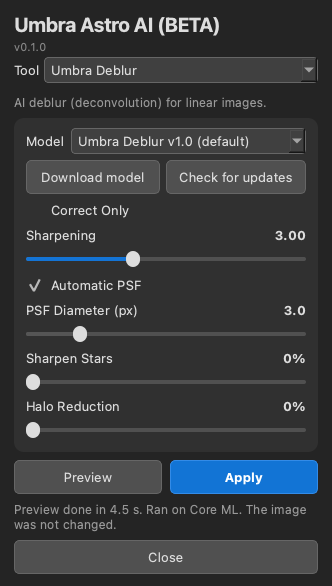
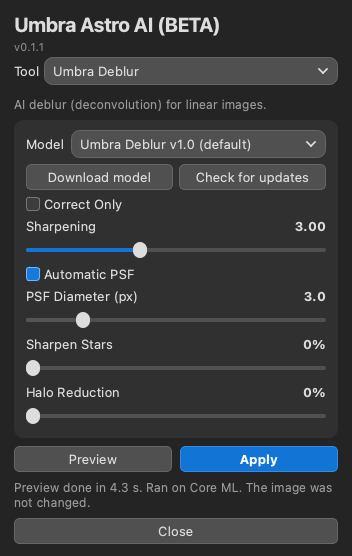
v0.1.1: buttons, check boxes, drop-downs and scroll bars styled like Umbra Astro Studio

Changed region(s): [[0.0301, 0.0306, 0.9639, 0.9784]]

diff --git a/Umbra_Astro_AI.py b/Umbra_Astro_AI.py
@@ -7,8 +7,9 @@ Run in Siril (Scripts menu), or standalone:
   python Umbra_Astro_AI.py --tool deblur|denoise|starless|gradient --image in.fits --out out.fits [--model PATH.onnx] [tool options, see --help]
   python Umbra_Astro_AI.py --ui-test        (opens the window on a fake image, runs Preview once, exits)
   python Umbra_Astro_AI.py --check-updates | --download [MODEL_ID|all]"""
-VERSION = '0.1.0'
-# First release of the combined script. Models go to the same folders as the single scripts ("Umbra Deblur", "Umbra Denoise", "Umbra Starless", "Umbra Gradient").
+VERSION = '0.1.1'
+# 0.1.1: buttons, check boxes, drop-down menus and scroll bars now look the same as in Umbra Astro Studio.
+# 0.1.0: First release of the combined script. Models go to the same folders as the single scripts ("Umbra Deblur", "Umbra Denoise", "Umbra Starless", "Umbra Gradient").
 # ============================================================================================ shared code (src/common.py)
 # Everything the five scripts share: dependency install, ONNX Runtime sessions, updater, preferences, Siril I/O, family UI, CLI.
 import sys, os, json, hashlib, argparse, time, math, re, types
@@ -710,20 +711,34 @@ def to_rgb8(img, params, flip=False):
 STYLE = """
 QWidget { background: #242424; color: #dddddd; font-size: 10pt; }
 QWidget#Card { background: #303030; border-radius: 10px; }
-QLabel, QCheckBox, QSlider { background: transparent; }
+QLabel, QCheckBox, QRadioButton, QSlider { background: transparent; }
 QLabel#Title { font-size: 15pt; font-weight: bold; color: #dddddd; }
 QLabel#Badge { color: #888888; font-size: 8pt; }
 QLabel#Note { color: #999999; font-size: 9pt; }
 QLabel#Value { color: #dddddd; font-weight: bold; min-width: 40px; }
 QLabel#Caption { color: #aaaaaa; font-size: 9pt; }
-QComboBox { background: #404040; border: 1px solid #666666; border-radius: 4px; padding: 3px 6px; }
-QComboBox QAbstractItemView { background: #303030; selection-background-color: #1274d5; }
-QPushButton { min-height: 20px; background: #505050; border: 1px solid #666666; border-radius: 5px; padding: 6px 12px; }
+QToolTip { color: #dddddd; background: #404040; border: 1px solid #666666; padding: 6px; }
+QCheckBox { spacing: 4px; background: transparent; }
+QCheckBox::indicator { width: 12px; height: 12px; border: 1px solid #777777; border-radius: 3px; background: #3c3c3c; }
+QCheckBox::indicator:checked { background: #1679db; border-color: #6eb5ff; }
+QCheckBox::indicator:disabled { border-color: #555555; background: #2e2e2e; }
+QComboBox { background: transparent; border: none; padding: 5px 25px 5px 9px; min-height: 18px; }
+QComboBox QAbstractItemView { background: #3d3d3d; color: #dddddd; border: 1px solid #666666; border-radius: 9px; padding: 5px; selection-background-color: #1679db; outline: 0; }
+QComboBox QAbstractItemView::item { padding: 5px 8px; border-radius: 5px; }
+QPushButton { background: #505050; border: 1px solid #666666; border-radius: 5px; padding: 4px 7px; }
 QPushButton:hover { background: #616161; }
-QPushButton:checked { background: #1274d5; border-color: #338be7; color: #ffffff; }
+QPushButton:checked { background: #1474d5; border-color: #358eef; }
 QPushButton:disabled { color: #777777; border-color: #444444; }
-QPushButton#Apply { min-height: 20px; background: #1274d5; color: #ffffff; font-weight: bold; border-color: #338be7; }
+QPushButton#Apply { background: #1274d5; color: #ffffff; font-weight: bold; border-color: #338be7; }
 QPushButton#Apply:disabled { background: #354656; color: #808890; border-color: #43505c; }
+QScrollArea { border: none; background: #242424; }
+QScrollBar:vertical { background: #242424; width: 8px; margin: 0; }
+QScrollBar::handle:vertical { background: #555555; border-radius: 4px; min-height: 24px; }
+QScrollBar::add-line:vertical, QScrollBar::sub-line:vertical { height: 0; }
+QScrollBar:horizontal { background: #242424; height: 8px; margin: 0; }
+QScrollBar::handle:horizontal { background: #555555; border-radius: 4px; min-width: 24px; }
+QScrollBar::add-line:horizontal, QScrollBar::sub-line:horizontal { width: 0; }
+QScrollBar::add-page:horizontal, QScrollBar::sub-page:horizontal, QScrollBar::add-page:vertical, QScrollBar::sub-page:vertical { background: transparent; }
 QSlider::groove:horizontal { height: 4px; background: #505050; border-radius: 2px; }
 QSlider::sub-page:horizontal { background: #1474d5; border-radius: 2px; }
 QSlider::handle:horizontal { background: #dddddd; width: 14px; margin: -6px 0; border-radius: 7px; }
@@ -745,6 +760,45 @@ def _qt():
     from PyQt6.QtGui import QImage, QPixmap
     from PyQt6.QtWidgets import (QApplication, QWidget, QLabel, QVBoxLayout, QHBoxLayout, QPushButton, QSlider, QProgressBar,
                                  QComboBox, QCheckBox, QSizePolicy, QStackedWidget, QMenu, QLayout)
+
+    from PyQt6.QtCore import QPointF, QRectF
+    from PyQt6.QtGui import QPainter, QPen, QColor
+    from PyQt6.QtWidgets import QListView, QFrame
+
+    class ModernComboBox(QComboBox):
+        """Rounded drop-down, drawn the same on every platform (same look as Umbra Astro Studio)."""
+        def __init__(self, parent=None):
+            super().__init__(parent)
+            self.setMinimumHeight(28)
+            self.setCursor(Qt.CursorShape.PointingHandCursor)
+            view = QListView(self); view.setFrameShape(QFrame.Shape.NoFrame); view.setSpacing(1); self.setView(view)
+
+        def paintEvent(self, event):
+            p = QPainter(self); p.setRenderHint(QPainter.RenderHint.Antialiasing)
+            p.setPen(QPen(QColor('#4398ed') if self.hasFocus() else QColor('#666666'), 1))
+            p.setBrush(QColor('#606060') if (self.underMouse() and self.isEnabled()) else QColor('#505050'))
+            p.drawRoundedRect(QRectF(.5, .5, self.width() - 1, self.height() - 1), 8, 8)
+            p.setPen(QColor('#dddddd') if self.isEnabled() else QColor('#888888')); p.setFont(self.font())
+            text = self.fontMetrics().elidedText(self.currentText(), Qt.TextElideMode.ElideRight, max(1, self.width() - 35))
+            p.drawText(self.rect().adjusted(9, 0, -27, 0), Qt.AlignmentFlag.AlignVCenter | Qt.AlignmentFlag.AlignLeft, text)
+            cx, cy = self.width() - 15, self.height() / 2
+            p.setPen(QPen(QColor('#dddddd') if self.isEnabled() else QColor('#888888'), 1.7))
+            p.drawLine(QPointF(cx - 4, cy - 2), QPointF(cx, cy + 2)); p.drawLine(QPointF(cx, cy + 2), QPointF(cx + 4, cy - 2)); p.end()
+
+        def enterEvent(self, event):
+            super().enterEvent(event); self.update()
+
+        def leaveEvent(self, event):
+            super().leaveEvent(event); self.update()
+
+        def showPopup(self):
+            super().showPopup()
+            container = self.view().window()
+            container.setAttribute(Qt.WidgetAttribute.WA_TranslucentBackground, True)
+            container.setObjectName('RoundedComboPopup')
+            container.setStyleSheet('QFrame#RoundedComboPopup {background:#3d3d3d;border:1px solid #666666;border-radius:10px;padding:4px;} '
+                                    'QListView {background:#3d3d3d;color:#dddddd;border:none;border-radius:7px;padding:3px;outline:0;} '
+                                    'QListView::item {padding:5px 8px;border-radius:5px;} QListView::item:selected {background:#1679db;}')
 
     class Worker(QThread):
         done = pyqtSignal(object, object, float, str, object)
@@ -911,7 +965,7 @@ def _qt():
             row = QHBoxLayout()
             label = QLabel(text)
             row.addWidget(label)
-            cb = QComboBox()
+            cb = ModernComboBox()
             for t, v in items:
                 cb.addItem(t, v)
             if tip:
@@ -973,16 +1027,16 @@ def _qt():
             cl.setContentsMargins(12, 10, 12, 12)
             mrow = QHBoxLayout()
             mrow.addWidget(QLabel('Model'))
-            self.model_box = QComboBox()
+            self.model_box = ModernComboBox()
             mrow.addWidget(self.model_box, 1)
             cl.addLayout(mrow)
             brow = QHBoxLayout()
             self.dl_btn = QPushButton('Download model')
-            self.dl_btn.setMinimumHeight(30)
+            self.dl_btn.setMinimumHeight(26)
             self.dl_btn.setToolTip("Download a model from this project's GitHub releases (checked against a SHA-256 before it is installed).")
             self.dl_btn.clicked.connect(self.show_dl_menu)
             self.upd_btn = QPushButton('Check for updates')
-            self.upd_btn.setMinimumHeight(30)
+            self.upd_btn.setMinimumHeight(26)
             self.upd_btn.setToolTip('Looks for newer models and a newer script. Nothing is downloaded or replaced until you ask.')
             self.upd_btn.clicked.connect(lambda: self.fetch_info(manual=True))
             brow.addWidget(self.dl_btn); brow.addWidget(self.upd_btn)
@@ -1349,7 +1403,7 @@ def _qt():
                 tl.addWidget(QLabel(f'v{VERSION}', objectName='Badge'))
                 row = QHBoxLayout()
                 row.addWidget(QLabel('Tool'))
-                self.tool_box = QComboBox()
+                self.tool_box = ModernComboBox()
                 for s in specs:
                     self.tool_box.addItem(s.name, s.key)
                 row.addWidget(self.tool_box, 1)
@@ -3065,7 +3119,7 @@ def _engine_starless():
             detected = bool(is_stretched(x))
             stretched = detected if mode == 'auto' else (mode == 'stretched')
             mode_used = 'stretched' if stretched else 'linear'
-            notes.append(f'data: {mode_used}' + (' (auto)' if mode == 'auto' else ' (manual)'))
+            notes.append(f'Data: {mode_used}' + (' (auto)' if mode == 'auto' else ' (manual)'))
             H, W = x.shape[-2:]
             total = _n_tiles(H, W) + (_n_tiles(H // HALO_FACTOR, W // HALO_FACTOR) if min(H, W) // HALO_FACTOR >= 64 else 0)
             done = [0]

diff --git a/README.md b/README.md
@@ -2,7 +2,7 @@
 
 Umbra Astro AI puts four AI tools for [Siril](https://siril.org) into one script and one window: **Umbra Deblur**, **Umbra Denoise**, **Umbra Starless** and **Umbra Gradient**. It is a Siril Python script with AI models. It runs locally on your computer and is free. Pick the tool from the dropdown at the top. The processing code is the same as in the four single-tool scripts.
 
-**Status: Beta (v0.1.0).** Expect rough edges.
+**Status: Beta (v0.1.1).** Expect rough edges.
 
 ![Umbra Astro AI panel](docs/screenshots/Umbra_Astro_AI_deblur_panel.png)
 ![Umbra Astro AI update note](docs/screenshots/Umbra_Astro_AI_panel_updnote.png)
